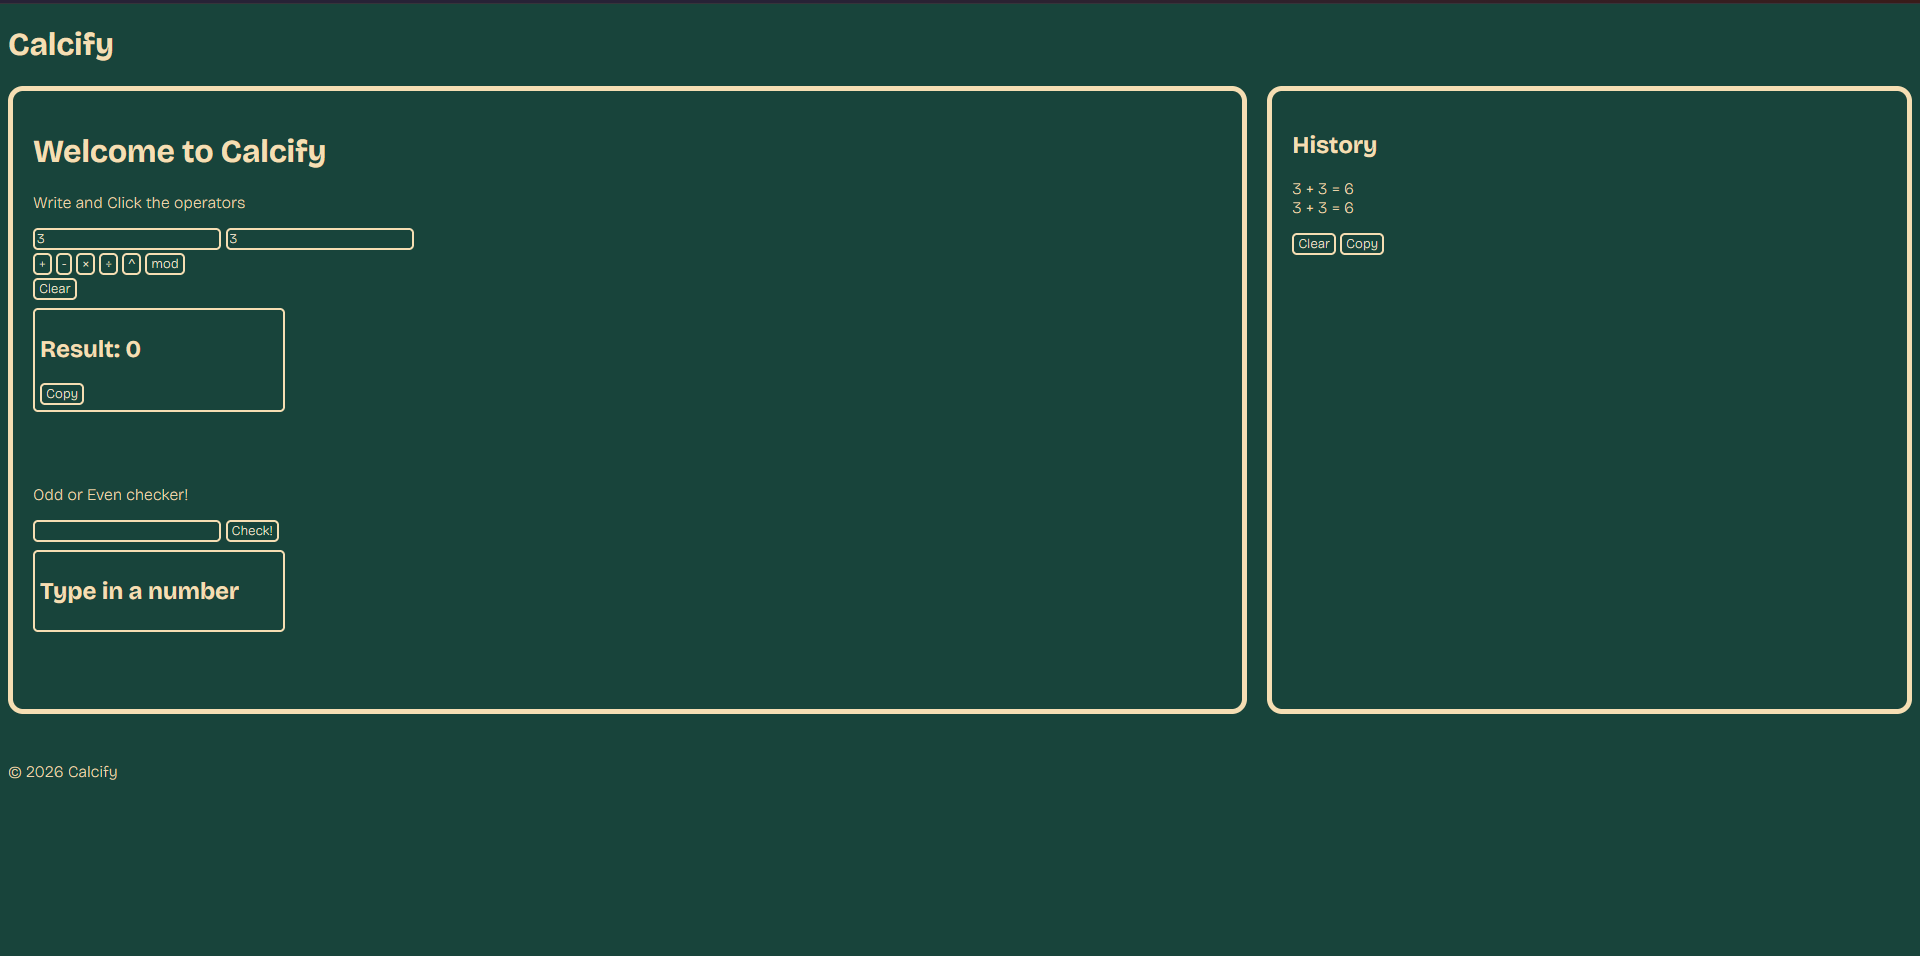
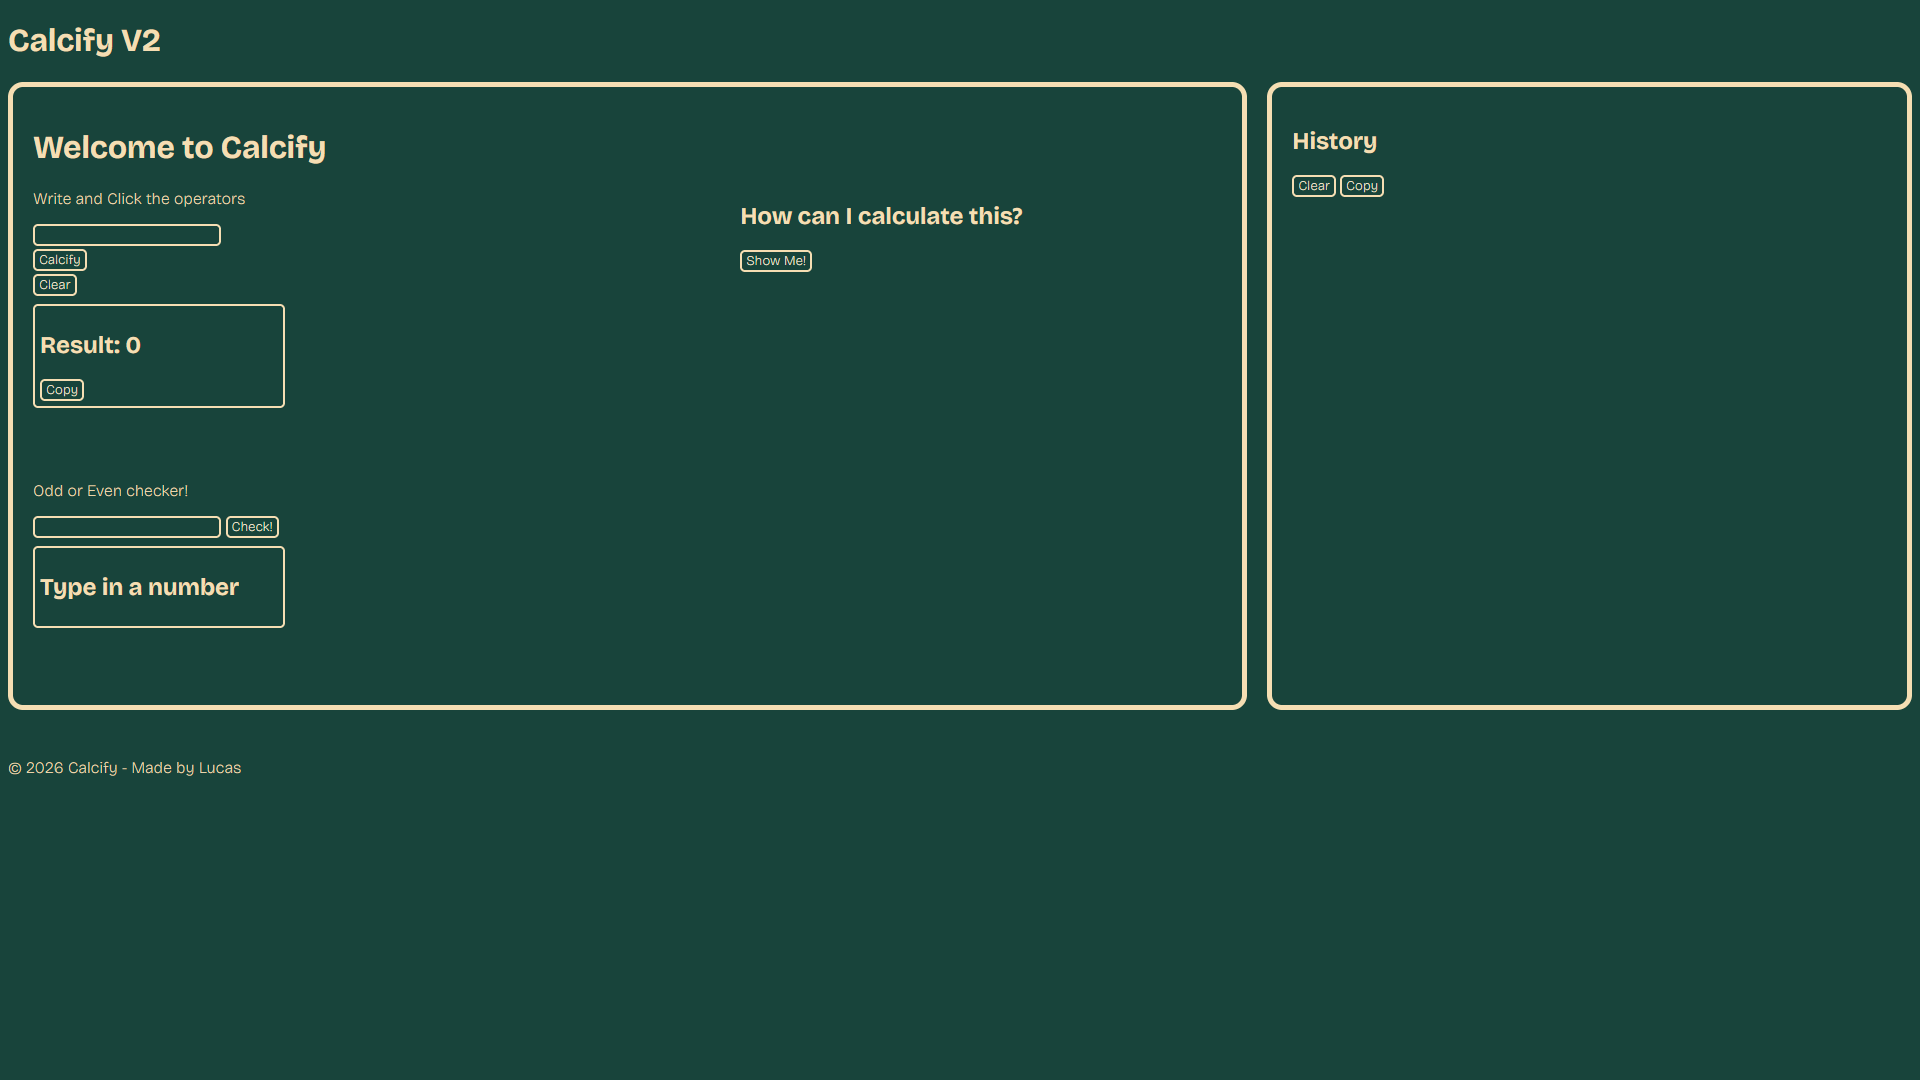
New Readme for V2

diff --git a/README.md b/README.md
@@ -1,16 +1,23 @@
 # Calcify
 
-A JavaScript calculator with the simple operations and a copy and history function.
+A browser-based JavaScript calculator built from scratch, featuring a custom expression evaluator, calculation history, step-by-step explanations, and more.
+
+Calcify started as a simple calculator and eventually became a much bigger project with its own tokenizer and expression evaluation logic, built without using `eval()`.
 
 ## Features
 
 - Basic arithmetic operations
 - Power and remainder operations
+- Operator precedence
+- Parentheses and nested parentheses
+- Unary positive and negative numbers
+- Custom expression tokenizer and evaluator
+- Step-by-step calculation with **HowTo**
 - Odd/even checker
 - Calculation history
-- Persistent history using localStorage
-- Copy result and history to clipboard
-- Decimal support
+- Persistent history using `localStorage`
+- Copy results and history to clipboard
+- Decimal support, including decimal commas
 - Responsive layout
 
 ## Technologies
@@ -19,29 +26,74 @@ A JavaScript calculator with the simple operations and a copy and history functi
 - CSS
 - JavaScript
 
+No frameworks are required. The expression evaluator was built from scratch in JavaScript without using `eval()`.
+
 ## How to use
 
-Type in the input spaces the two values and click one of the operation symbols, then voilà, your result.
+Type the expression you want to Calcify and click the calculate button. Your result will be displayed along with the option to view the calculation step by step using **HowTo**.
 
-There's also the Odd or Even checker, put in the number you want and then click "Check!", your result will be under the text field.
+For example:
+
+`2*(3+4)-5`
+
+Calcify evaluates the expression following operator precedence and parentheses:
+
+`2*(3+4)-5`  
+`2*7-5`  
+`14-5`  
+`9`
+
+There's also an **Odd or Even checker**. Enter a number and click **Check!** to see the result.
 
 ## Screenshots
 
-![Calcify screenshot](assets/images/Current.png)
-![Mobile Experience](assets/images/MobileExperience.png)
+### Current V2
+
+![CalcifyV2 screenshot](assets/images/Current.png)
+![MobileV2 Experience](assets/images/MobileExperienceV2.png)
+
+### Past versions
+
+![CalcifyV1 screenshot](assets/images/V1.png)
+![MobileV1 Experience](assets/images/MobileExperience.png)
 ![First Version](assets/images/FirstVersion.png)
+
+
+
 
 ## What I learned
 
-Learnt in practice JS (which I hadn't used before!), used APIs for clipboard, learned about alerts, functions, syntax, value treatment.. a lot of stuff.. haha..
+I learned **JavaScript in practice**, which I hadn't really used before! I worked with APIs such as the **Clipboard API**, and learned about alerts, functions, syntax, value handling, and a lot more... haha.
 
-Also practiced a bit of CSS responsiveness (which I hadn't used much before.).
+I also practiced a bit of **responsive CSS**, which I hadn't worked with much before.
 
-I already had a lot of previous experience with HTML, so nothing that new.
+I already had a lot of previous experience with **HTML**, so there wasn't that much new for me there.
+
+With **V2**, I learned **SO MUCH STUFF**. I had to build an entire expression-evaluation system to avoid using `eval()`. I basically made my own evaluator... hah.
+
+> *(help, I barely knew JavaScript two weeks ago)*
 
 ## Running locally
 
-To run, you can download the project files and open the index.html, or you can use the website ([Click here!](https://wirum.github.io/Calcify/)).
+You can clone or download the project and open `index.html` in your browser.
+
+You can also use the live version here:
+
+[Open Calcify](https://wirum.github.io/Calcify/)
+
+## Versions
+
+### V1
+
+The first complete version of Calcify, featuring basic arithmetic operations, power and remainder, an odd/even checker, calculation history, `localStorage` persistence, clipboard support, input validation, and a responsive interface.
+
+### V2
+
+A major rewrite of the calculator engine.
+
+V2 introduced a single-expression input and a custom evaluation system with tokenization, operator precedence, nested parentheses, unary operators, right-associative exponentiation, and the visual **HowTo** system.
+
+The evaluator was built manually instead of relying on JavaScript's `eval()`.
 
 ## License
 
